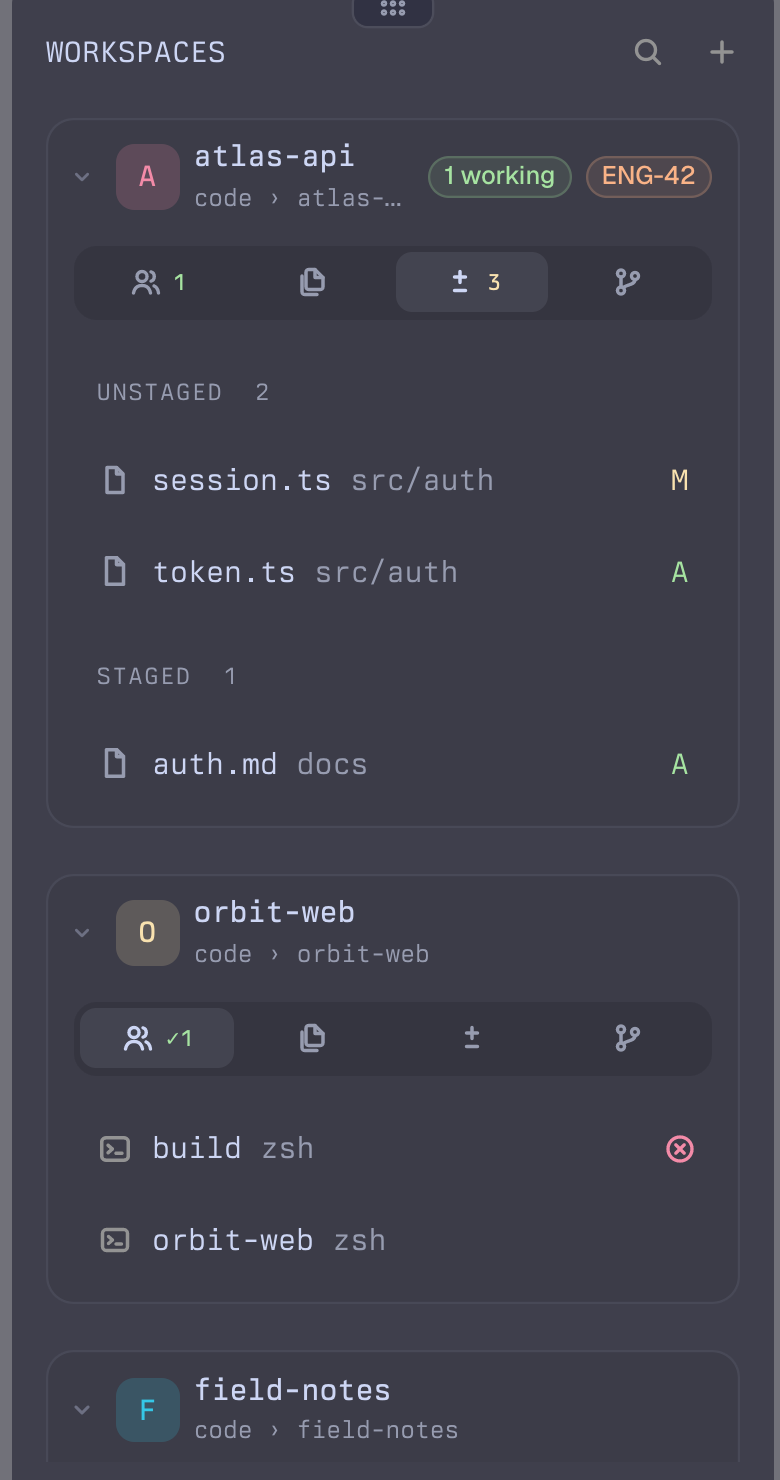
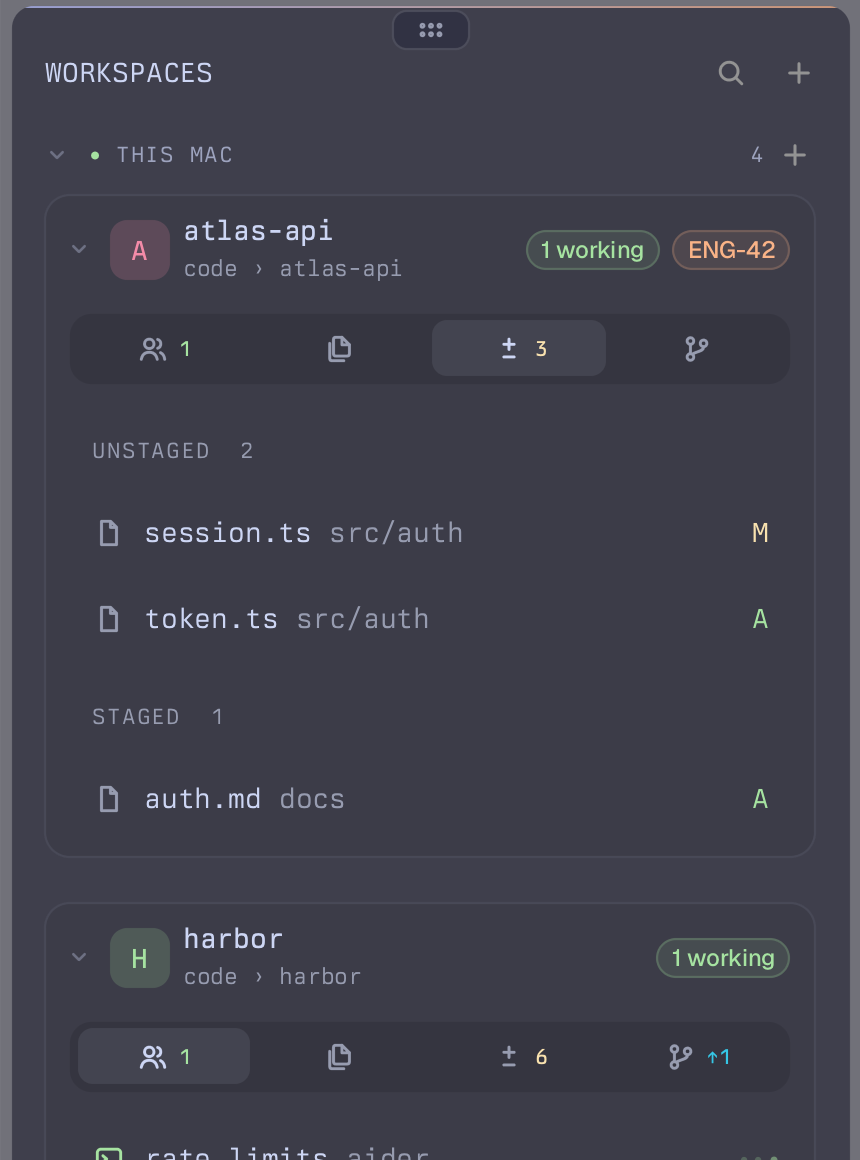
Fresh screenshots; gallery on the front page

diff --git a/README.md b/README.md
@@ -6,7 +6,20 @@ Plugins for [Tern](https://stencil.so/tern).
 | --- | --- |
 | [Kai](kai) | A workspaces sidebar: every session as a card with its agents, files, git changes and branches, plus live agent state |
 
-![Kai](kai/docs/images/hero.png)
+![Kai in a Tern window](kai/docs/images/hero.png)
+
+<table>
+  <tr>
+    <td align="center"><img src="kai/docs/images/sidebar.png" width="260" alt="Agents"><br><b>Agents</b><br>Live state per pane: working, running, failed</td>
+    <td align="center"><img src="kai/docs/images/changes.png" width="260" alt="Changes"><br><b>Changes</b><br>Unstaged and staged files, stage from the menu</td>
+    <td align="center"><img src="kai/docs/images/files.png" width="260" alt="Files"><br><b>Files</b><br>The workspace folder as a tree</td>
+  </tr>
+  <tr>
+    <td align="center"><img src="kai/docs/images/monorepo.png" width="260" alt="Monorepo"><br><b>Monorepos</b><br>Nested repos and submodules, grouped</td>
+    <td align="center"><img src="kai/docs/images/refs.png" width="260" alt="Refs"><br><b>Refs</b><br>Branches per repo, ahead and behind</td>
+    <td align="center"><img src="kai/docs/images/hosts.png" width="260" alt="Hosts"><br><b>Hosts</b><br>One foldable section per machine</td>
+  </tr>
+</table>
 
 ## Install
 
